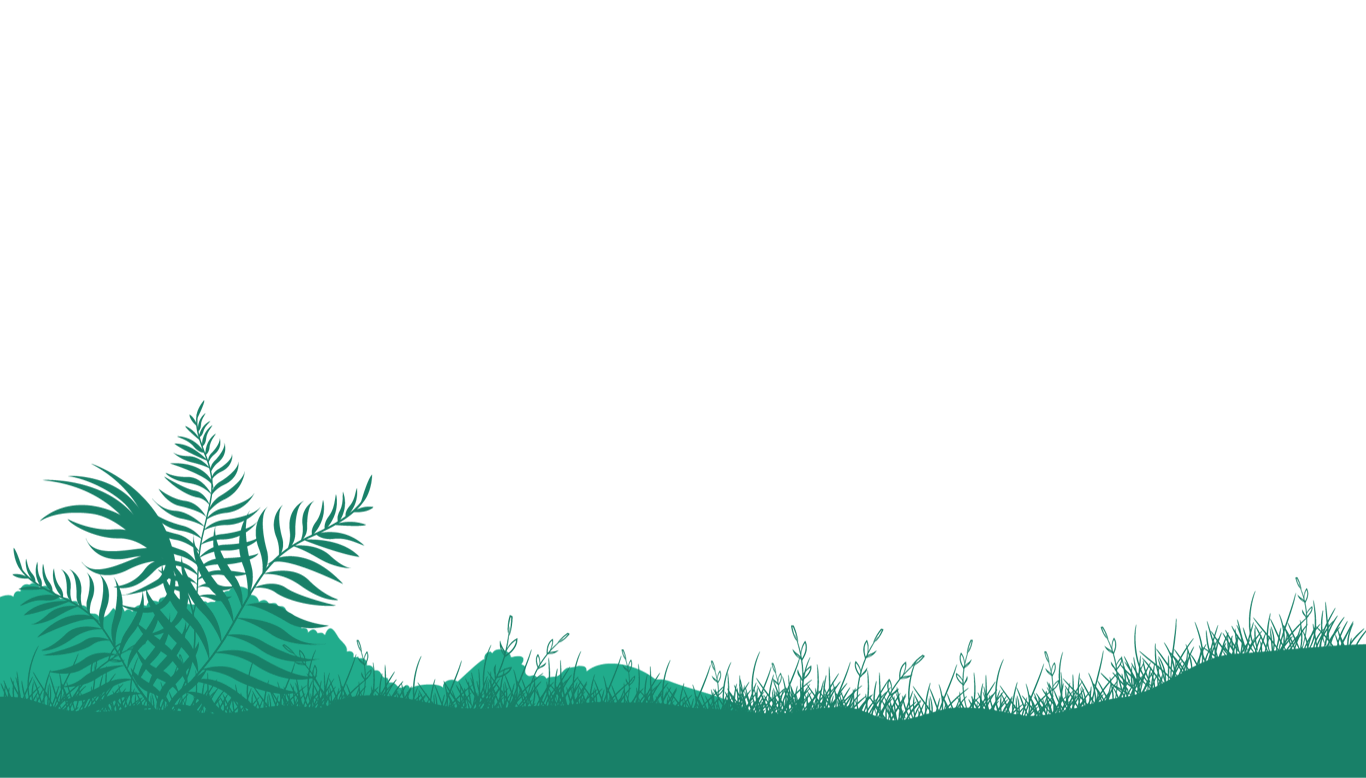
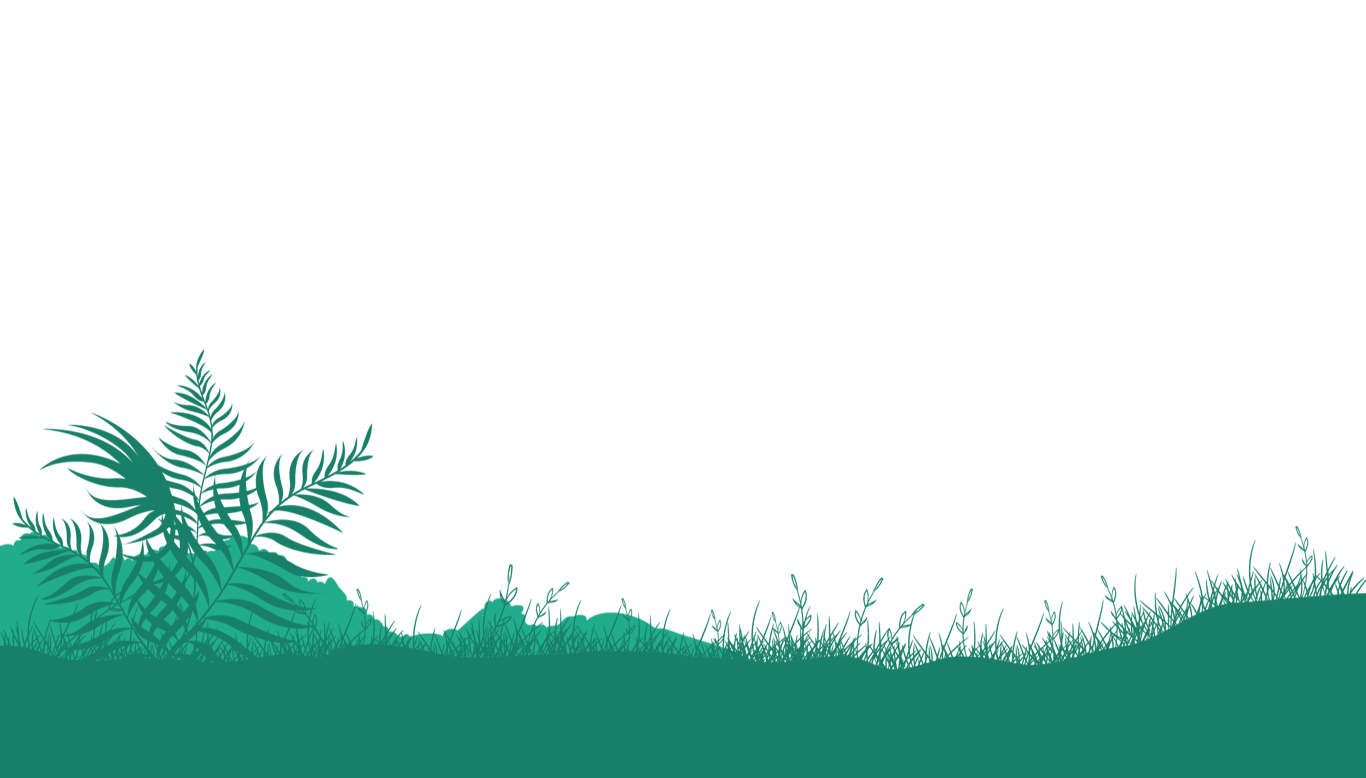
UBAH MODIF

Changed region(s): [[0.0, 0.4627, 1.0, 0.9254]]

diff --git a/script.js b/script.js
@@ -99,19 +99,19 @@ window.addEventListener('scroll', () => {
   hill3.style.left = value * 0.15 + 'px';
   tree.style.top = value * 0.25 + 'px';
   tree.style.left = value * 0.25 + 'px';
-  phone1.style.right = Math.min(value * 1, 200) + 'px';
-  phone2.style.right = Math.min(value * 1.2, 100) + 'px';
-  phone3.style.right = Math.min(value * 1.5, 315) + 'px';
-  phone4.style.right = Math.min(value * 1.7, 30) + 'px';
-  phone5.style.right = Math.min(value * 2, 400) + 'px';
-  deskripsi.style.left = Math.min(value * 2, 100) + 'px';
+  phone1.style.right = Math.min(value * 1, 300) + 'px';
+  phone2.style.right = Math.min(value * 1.2, 200) + 'px';
+  phone3.style.right = Math.min(value * 1.5, 415) + 'px';
+  phone4.style.right = Math.min(value * 1.7, 130) + 'px';
+  phone5.style.right = Math.min(value * 2, 500) + 'px';
+  deskripsi.style.left = Math.min(value * 2, 15) + '%';
 
   // Animasi logo dan content di bagian pengenalan
   if (value > pengenalanOffsetTop + pengenalanHeight * 0.2) {
-    logo.style.left = Math.min(value * 1, 40) + 'px';
+    logo.style.left = Math.min(value * 1, 150) + 'px';
     logo.style.top = Math.min(value * 1.5, 5) + '%';
-    content.style.right = Math.min(value * 1, 60) + 'px';
-    content.style.top = Math.min(value * 1.5, 7) + '%';
+    content.style.right = Math.min(value * 1, 70) + 'px';
+    content.style.top = Math.min(value * 1.5, 12) + '%';
   } else {
     logo.style.left = '0px';
     logo.style.top = '0%';

diff --git a/index.html b/index.html
@@ -68,17 +68,12 @@
         <h2>Visi dan Misi</h2>
         <p>
           Lorem ipsum dolor sit amet, consectetur adipisicing elit. Alias
-          quaerat fugiat molestias officia, sint inventore dolore quo placeat
-          fuga magni nesciunt sunt voluptatibus voluptas maiores nulla illum
-          necessitatibus reprehenderit numquam cumque aperiam blanditiis quis
-          vero eveniet.
+          quaerat fugiat molestias officia, sint inventore dolore quo placeat.
         </p>
         <h2>Latar Belakang</h2>
         <p>
           Lorem, ipsum dolor sit amet consectetur adipisicing elit. Placeat ipsa
-          velit error odio, quia fuga dolores assumenda recusandae omnis ea
-          magnam aspernatur. Numquam dolore quod ipsam quo iste tenetur dolorum
-          ab dolor eveniet! Culpa, labore dolore!
+          velit error odio, quia fuga dolores assumenda recusandae.
         </p>
       </div>
     </section>

diff --git a/style.css b/style.css
@@ -89,18 +89,18 @@ header {
   background-repeat: no-repeat;
   height: 90vh;
   padding: 0 20% 10%;
+  margin-top: 0.25vh;
   gap: 50px;
 }
 
 .deskripsi {
   position: absolute;
   top: 15%;
-  left: 25%;
+  left: 1%;;
   width: 100%;
   pointer-events: none;
   z-index: 50;
-  /* transform: translate(-50%, 50%); */
-  transition: 1.2s ease; /* Smooth transition */
+    transition: 0.6s ease; /* Smooth transition */
   text-shadow: 2px 2px 4px rgba(0,  0,  0,  .2);
   font-size: 1.5em;
   color: #fff;
